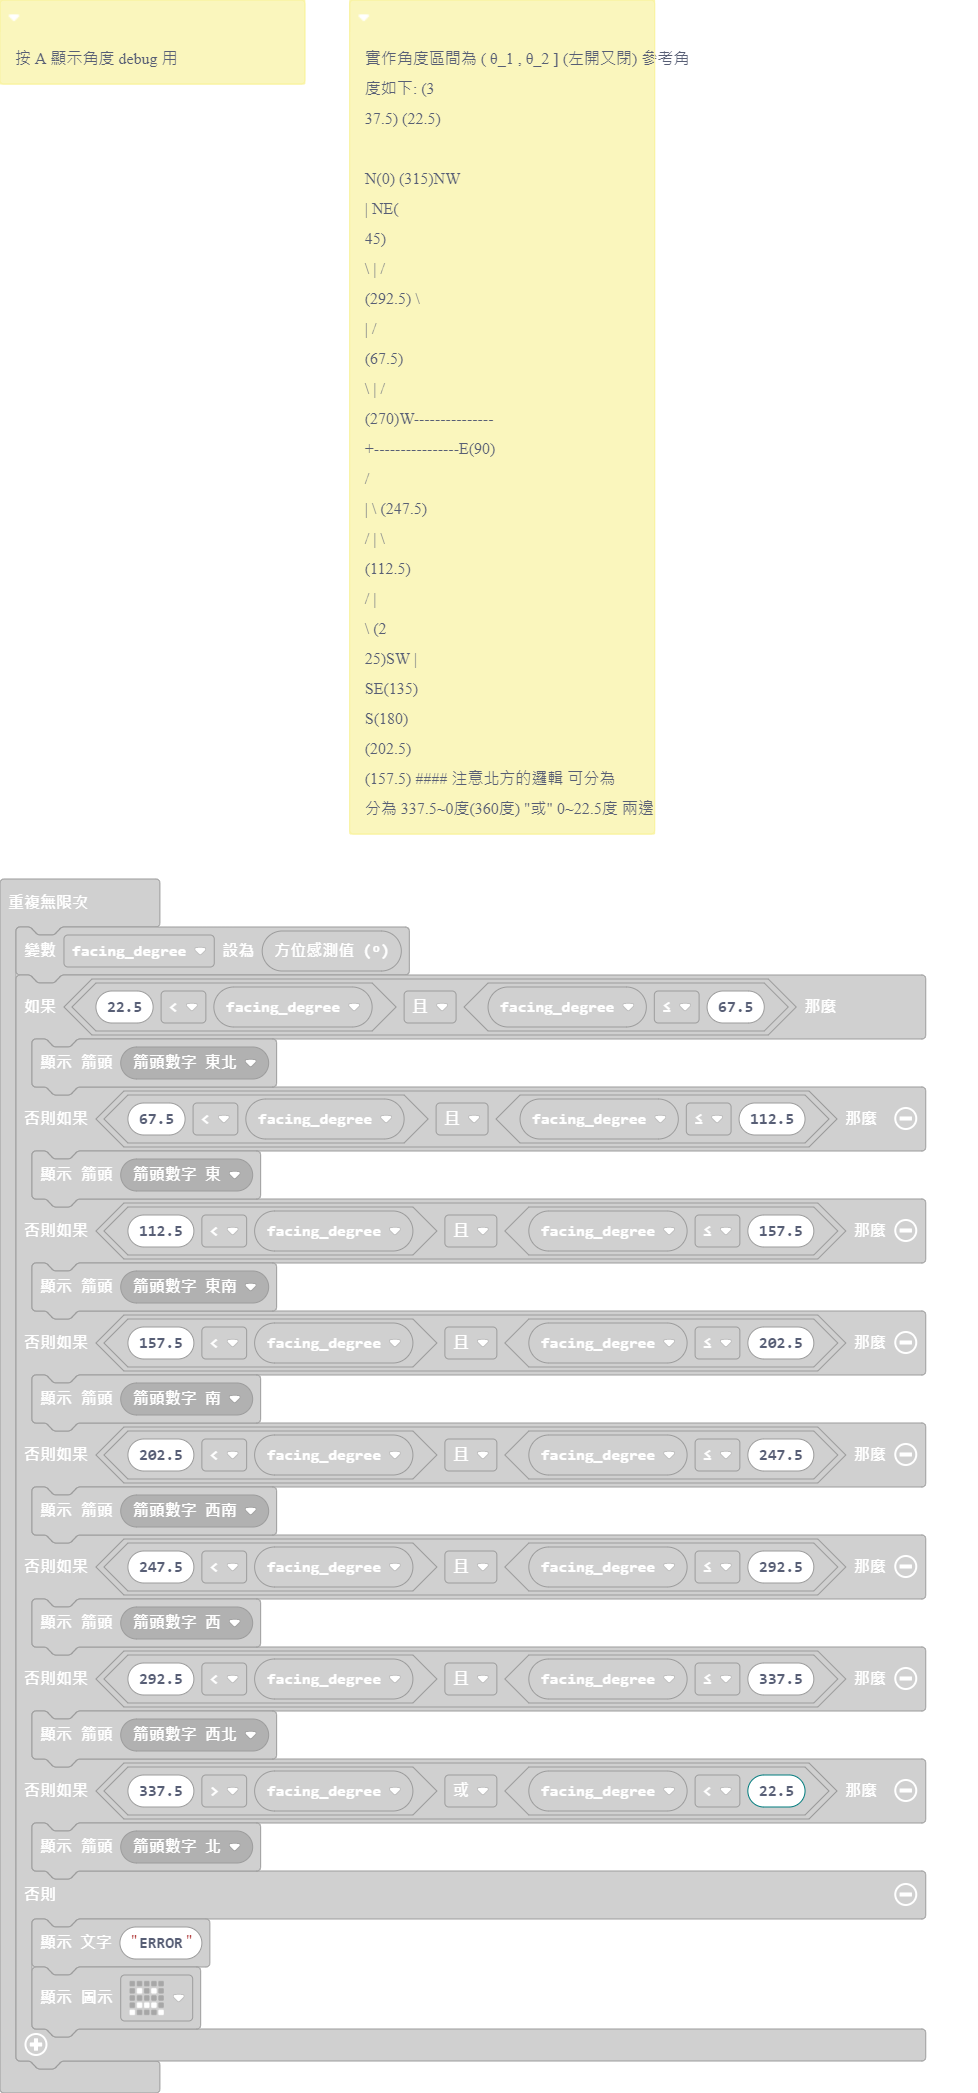
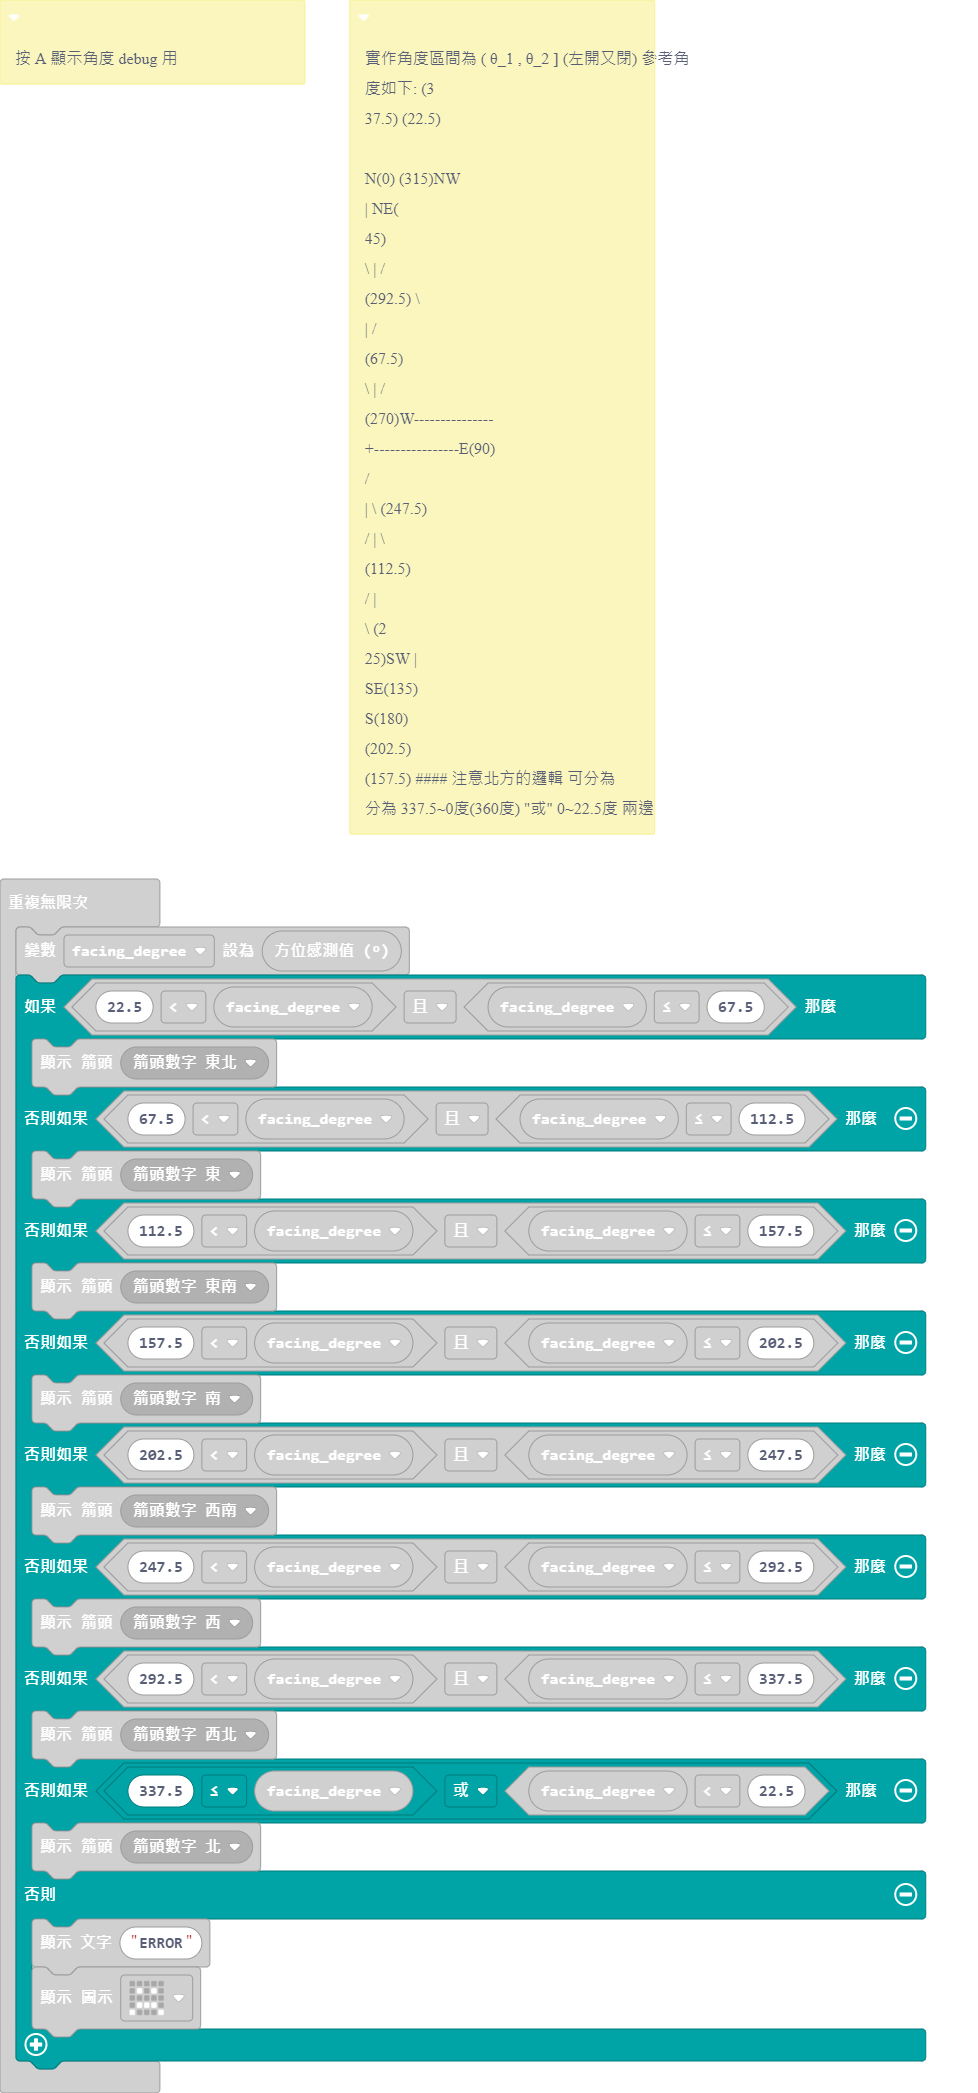
really fix >337.5 bug

Changed region(s): [[0.0, 0.4658, 0.9509, 0.9938]]

diff --git a/main.ts b/main.ts
@@ -60,7 +60,7 @@ basic.forever(function () {
         basic.showArrow(ArrowNames.West)
     } else if (292.5 < facing_degree && facing_degree <= 337.5) {
         basic.showArrow(ArrowNames.NorthWest)
-    } else if (337.5 > facing_degree || facing_degree < 22.5) {
+    } else if (337.5 <= facing_degree || facing_degree < 22.5) {
         basic.showArrow(ArrowNames.North)
     } else {
         basic.showString("ERROR")
